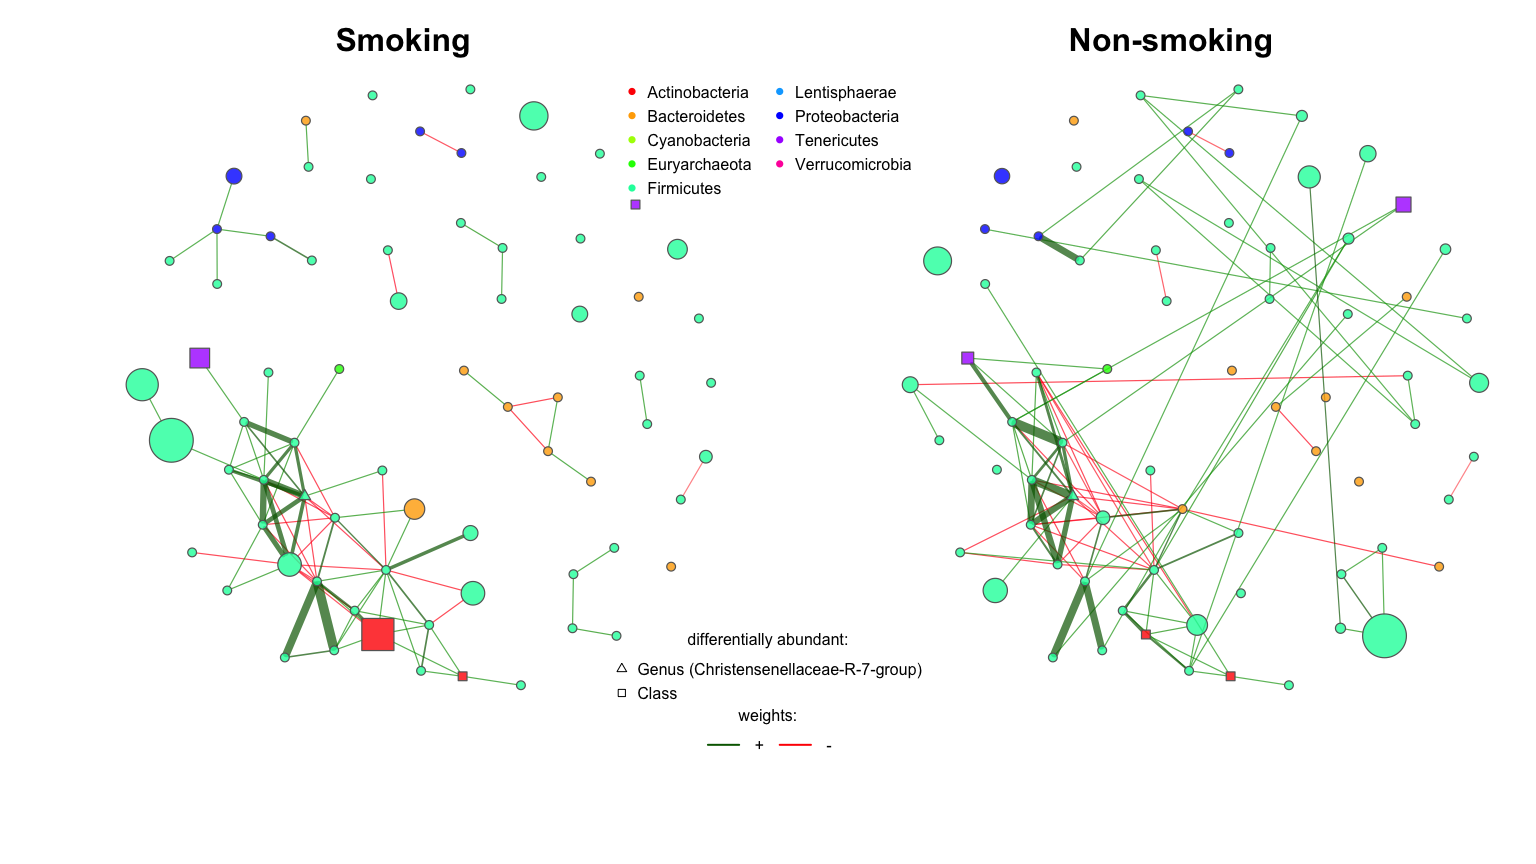
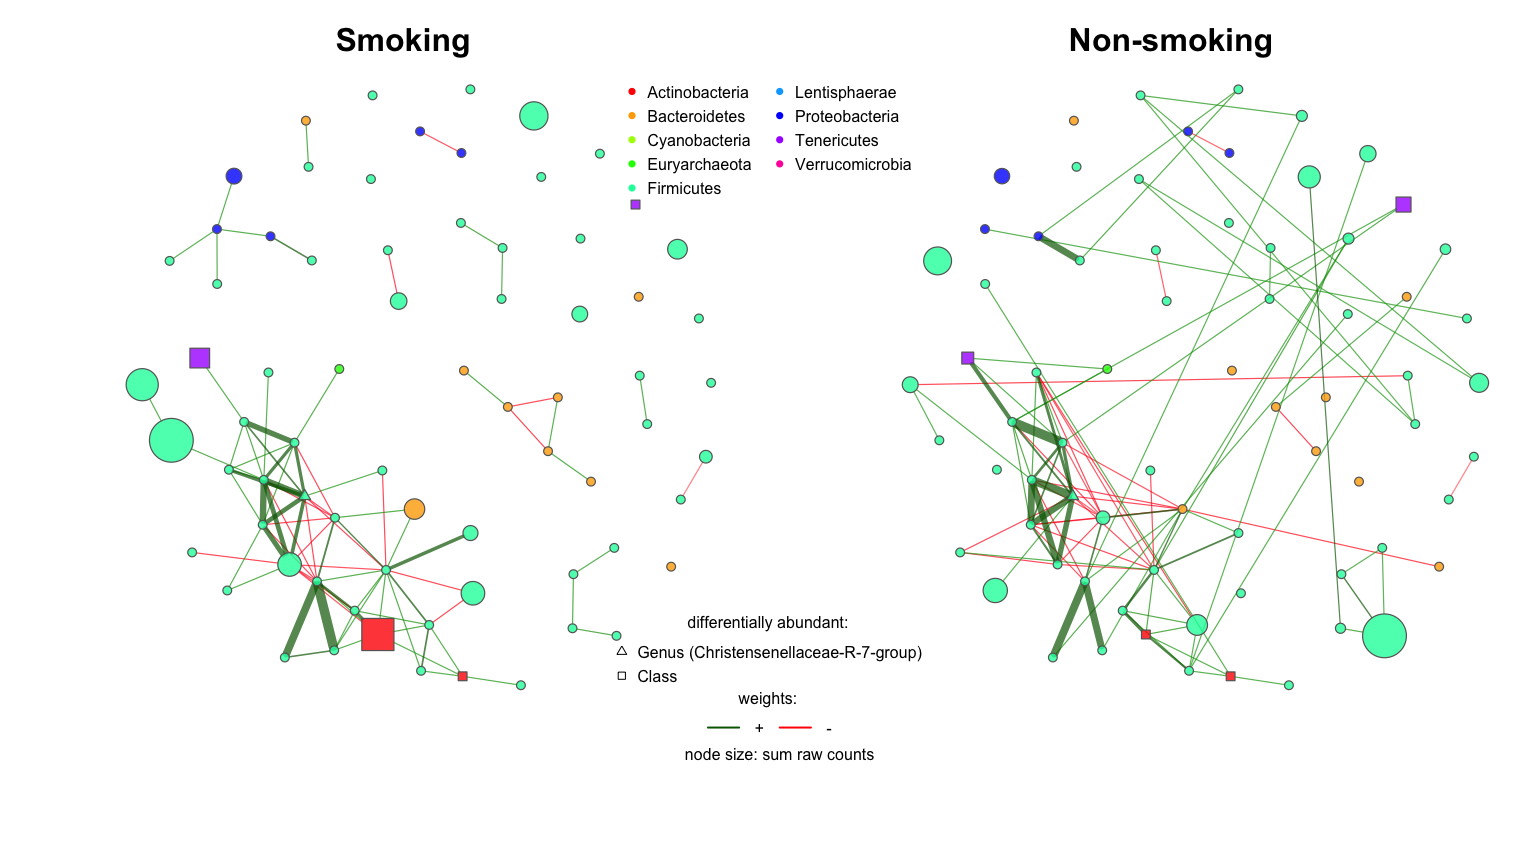
update vizs

Changed region(s): [[0.4062, 0.7188, 0.5938, 0.875]]

diff --git a/5_networks/5.2.1_Networks_viz_Gen_smoke.md b/5_networks/5.2.1_Networks_viz_Gen_smoke.md
@@ -79,15 +79,19 @@ legend("top",
        legend=levels(phyl_ps_prune), ncol = 2,
        col=phylcol, pt.bg = phylcol, bty = "n", pch=16) 
 legend("bottom", 
-       inset = .11, 
+       inset = .13, 
        title = "weights:",
        legend=c("+","-"), lty = 1, lwd = 2,
        col=c("darkgreen","red"), bty="n", horiz = TRUE) 
 legend("bottom", 
-       inset = .17, 
+       inset = .19, 
        title = "differentially abundant:",
        legend=c("Genus (Christensenellaceae-R-7-group)","Class"), pch = c(2,0), 
        bty="n", horiz = FALSE) 
+legend("bottom", 
+       inset = .1,
+       legend = "node size: sum raw counts",
+       bty="n", horiz = TRUE) 
 ```
 
 ![](5.2.1_Networks_viz_Gen_smoke_files/figure-gfm/unnamed-chunk-4-1.png)<!-- -->
@@ -188,8 +192,8 @@ V(g_sum)$com_size[V(g_sum)$type == TRUE] <- table(props_W$clustering$clust1)[V(g
 V(g_sum)$com_size[V(g_sum)$type == FALSE] <- table(props_W$clustering$clust2)[V(g_sum)$com_nr[V(g_sum)$type == FALSE]] # treated sizes
 
 V(g_sum)$color <- V(g_sum)$type
-V(g_sum)$color=gsub("FALSE","#1CFFCE",V(g_sum)$color)
-V(g_sum)$color=gsub("TRUE","#66B0FF",V(g_sum)$color)
+V(g_sum)$color=gsub("FALSE","palegreen3",V(g_sum)$color)
+V(g_sum)$color=gsub("TRUE","mediumpurple",V(g_sum)$color)
 E(g_sum)$weight <- as.numeric(inc_com_sum[,3])
 
 layout_bi_rows <- layout_as_bipartite(g_sum, hgap = 50, vgap = 60, maxiter = 1000)
@@ -208,7 +212,7 @@ plot(g_sum, vertex.size = V(g_sum)$com_size/2, edge.width=E(g_sum)$weight/5,
      margin = -.2, asp = 2, edge.arrow.size=.7)
 
 legend(x=-2.5, y=-1.1, c("W = 0 (Smoking)", "W = 1 (Non-smoking)"), pch=21,
-       col="#777777", pt.bg=c("#66B0FF","#1CFFCE"), pt.cex=2, cex=.8, bty="n", ncol=1)
+       col="#777777", pt.bg=c("mediumpurple","palegreen3"), pt.cex=2, cex=.8, bty="n", ncol=1)
 
 legend(x=.1, y=-1.1, legend=legend_cats$size_text, pt.cex=legend_cats$size_circle/11, bty="n", cex = .8,
        col="#777777", pch=21, pt.bg="lightgray", ncol = 2, y.intersp = 1.5, x.intersp = 1.5, 
@@ -240,7 +244,7 @@ plot(props_W,
      featVecShape = shapeVec[names_clust],
      nodeFilterPar = names_clust,
      edgeTranspLow = 10, edgeTranspHigh = 10,
-     groupNames = c("Smoking (module 2)", "Non-smoking"))
+     groupNames = c("Smoking (community 2)", "Non-smoking"))
 ```
 
 ![](5.2.1_Networks_viz_Gen_smoke_files/figure-gfm/unnamed-chunk-9-1.png)<!-- -->
@@ -267,7 +271,7 @@ plot(props_W,
      featVecShape = shapeVec[names_clust],
      nodeFilterPar = names_clust,
      edgeTranspLow = 10, edgeTranspHigh = 10,
-     groupNames = c("Smoking", "Non-smoking (module 1)"))
+     groupNames = c("Smoking", "Non-smoking (community 1)"))
 ```
 
 ![](5.2.1_Networks_viz_Gen_smoke_files/figure-gfm/unnamed-chunk-10-1.png)<!-- -->
@@ -285,7 +289,7 @@ par(mfrow = c(1,2))
 corrplot(cor_0, method = "color", tl.col = "grey", mar=c(0,0,5,0),
          col = col1(50), title = "Smoking")
 corrplot(cor_1, method = "color", tl.col = "grey", mar=c(0,0,5,0),
-         col = col1(100), title = "Non-smoking")
+         col = col1(100), title = "Non-smoking (community 1)")
 ```
 
 ![](5.2.1_Networks_viz_Gen_smoke_files/figure-gfm/unnamed-chunk-11-1.png)<!-- -->
